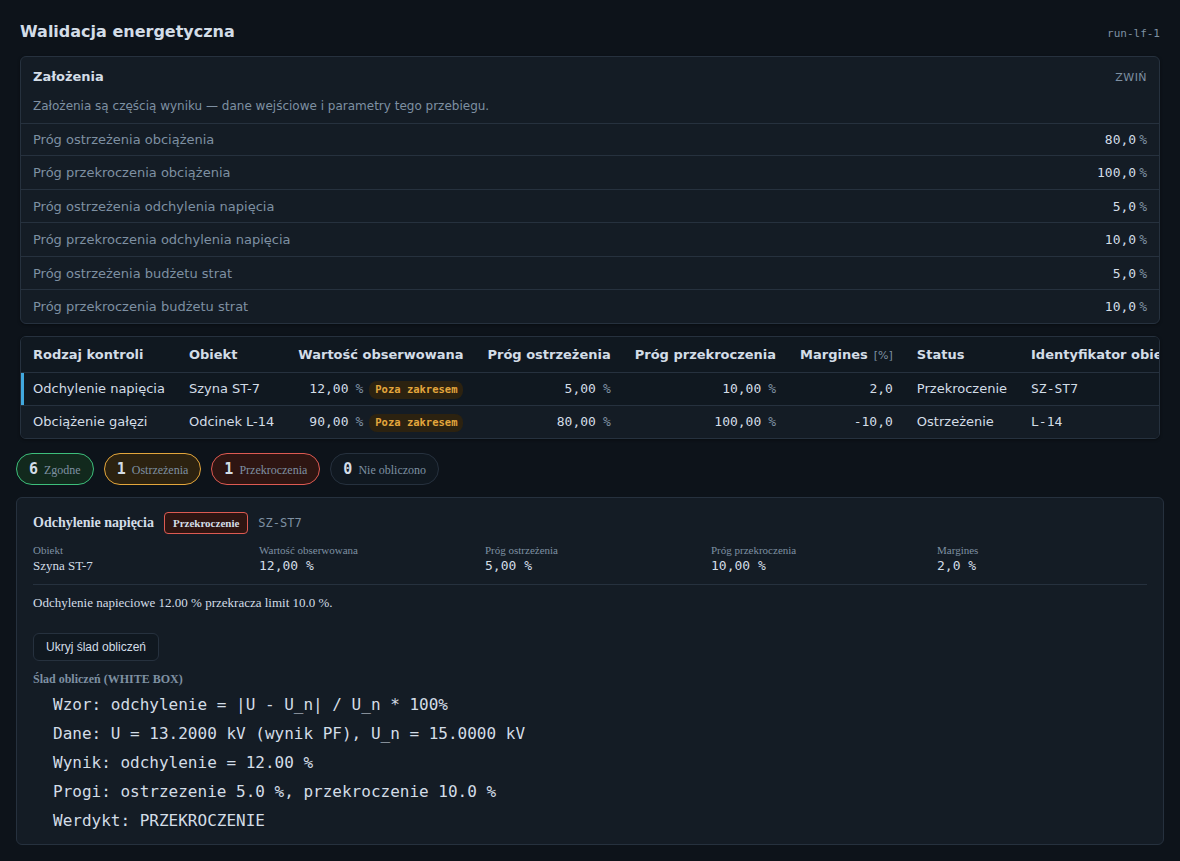
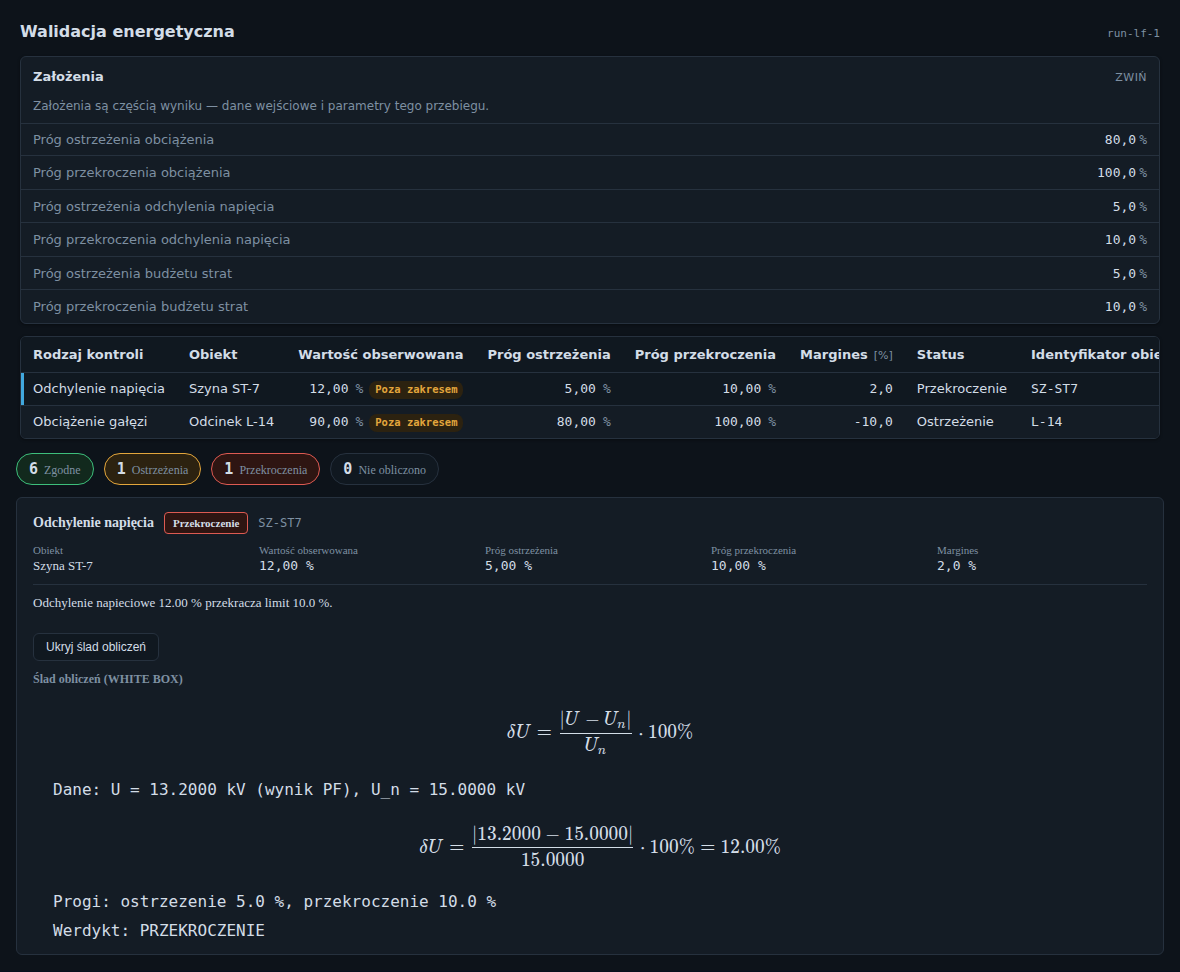
R3-D (V12K-112): slad WHITE BOX walidacji w LaTeX/KaTeX + rejestr rundy 3
Karta recenzyjna wlasciciela: wywody walidacji energetycznej renderowane
przez KaTeX zamiast surowego ASCII. Backend emituje kroki {tekst, latex}
(wzor + podstawienie liczbowe per kontrola), frontend renderuje MathBlock
(reuse ui/proof/MathRenderer, fallback <code>). Scena harnessu zrzutow
zaktualizowana do nowego ksztaltu; zrzuty flow-ekspert 10/10.

Rejestr: V12K-110 (R3-A obciazalnosc w rozplywie), V12K-111 (R3-C dowody
porownania A/B), V12K-112 (R3-D LaTeX); program FLOW EKSPERT+ par.7 —
runda 3 ALL IN zamknieta.

Claude-Session: https://claude.ai/code/session_01KyqX3x2UY6tyGCiMhNbA3u

diff --git a/mv-design-pro/frontend/src/creator-harness-main.tsx b/mv-design-pro/frontend/src/creator-harness-main.tsx
@@ -95,11 +95,17 @@ window.fetch = (async (input: RequestInfo | URL, init?: RequestInit) => {
             observed_value: 12.0, unit: '%', limit_warn: 5.0, limit_fail: 10.0, margin_pct: 2.0,
             status: 'FAIL', why_pl: 'Odchylenie napieciowe 12.00 % przekracza limit 10.0 %.',
             white_box: [
-              'Wzor: odchylenie = |U - U_n| / U_n * 100%',
-              'Dane: U = 13.2000 kV (wynik PF), U_n = 15.0000 kV',
-              'Wynik: odchylenie = 12.00 %',
-              'Progi: ostrzezenie 5.0 %, przekroczenie 10.0 %',
-              'Werdykt: PRZEKROCZENIE',
+              {
+                tekst: 'Wzor: odchylenie = |U - U_n| / U_n * 100%',
+                latex: '\\delta U = \\frac{|U - U_n|}{U_n} \\cdot 100\\%',
+              },
+              { tekst: 'Dane: U = 13.2000 kV (wynik PF), U_n = 15.0000 kV', latex: null },
+              {
+                tekst: 'Wynik: odchylenie = 12.00 %',
+                latex: '\\delta U = \\frac{|13.2000 - 15.0000|}{15.0000} \\cdot 100\\% = 12.00\\%',
+              },
+              { tekst: 'Progi: ostrzezenie 5.0 %, przekroczenie 10.0 %', latex: null },
+              { tekst: 'Werdykt: PRZEKROCZENIE', latex: null },
             ],
           },
           {
@@ -107,11 +113,17 @@ window.fetch = (async (input: RequestInfo | URL, init?: RequestInit) => {
             observed_value: 90.0, unit: '%', limit_warn: 80.0, limit_fail: 100.0, margin_pct: -10.0,
             status: 'WARNING', why_pl: 'Obciazenie 90.00 % powyzej progu ostrzegawczego 80.0 %.',
             white_box: [
-              'Wzor: obciazenie = |I| / I_n * 100%',
-              'Dane: |I| = 0.2295 kA (wynik PF), I_n = 0.2550 kA (dane galezi)',
-              'Wynik: obciazenie = 90.00 %',
-              'Progi: ostrzezenie 80.0 %, przekroczenie 100.0 %',
-              'Werdykt: OSTRZEZENIE',
+              {
+                tekst: 'Wzor: obciazenie = |I| / I_n * 100%',
+                latex: '\\varepsilon = \\frac{|I|}{I_n} \\cdot 100\\%',
+              },
+              { tekst: 'Dane: |I| = 0.2295 kA (wynik PF), I_n = 0.2550 kA (dane galezi)', latex: null },
+              {
+                tekst: 'Wynik: obciazenie = 90.00 %',
+                latex: '\\varepsilon = \\frac{0.2295}{0.2550} \\cdot 100\\% = 90.00\\%',
+              },
+              { tekst: 'Progi: ostrzezenie 80.0 %, przekroczenie 100.0 %', latex: null },
+              { tekst: 'Werdykt: OSTRZEZENIE', latex: null },
             ],
           },
         ],

diff --git a/mv-design-pro/frontend/src/ui2/wyniki/jakosc/EkranJakosci.tsx b/mv-design-pro/frontend/src/ui2/wyniki/jakosc/EkranJakosci.tsx
@@ -19,6 +19,7 @@
 import { useCallback, useEffect, useMemo, useState } from 'react';
 import './jakosc.css';
 import type { AdvancementMode } from '../../shell/modeModel';
+import { MathBlock } from '../../../ui/proof/MathRenderer';
 import { useExecutionRunsStore } from '../../../ui/study-cases/runStore';
 import type { ExecutionRun } from '../../../ui/study-cases/types';
 import { EkranAnalizy, usePoprawWModelu } from '../wzorzec';
@@ -492,9 +493,16 @@ function SzczegolWalidacji({
             <div data-testid="mvd-jakosc-wal-slad-blok">
               <span className="mvd-jakosc-slad-tytul">{JAKOSC_STRINGS.sladTytul}</span>
               <ol className="mvd-jakosc-slad" data-testid="mvd-jakosc-wal-slad">
-                {(item.white_box ?? []).map((linia) => (
-                  <li key={linia} className="mvd-jakosc-slad-krok">
-                    <code className="mvd-num">{linia}</code>
+                {/* R3-D (recenzja właściciela): wzór i podstawienie renderowane
+                    KaTeX-em (kanon Proof Engine — matematyka w LaTeX); kroki bez
+                    formuły (dane/progi/werdykt) pozostają tekstowe. */}
+                {(item.white_box ?? []).map((krok) => (
+                  <li key={krok.tekst} className="mvd-jakosc-slad-krok">
+                    {krok.latex ? (
+                      <MathBlock latex={krok.latex} />
+                    ) : (
+                      <code className="mvd-num">{krok.tekst}</code>
+                    )}
                   </li>
                 ))}
               </ol>

diff --git a/mv-design-pro/frontend/src/ui2/wyniki/jakosc/api.ts b/mv-design-pro/frontend/src/ui2/wyniki/jakosc/api.ts
@@ -85,6 +85,12 @@ export type RodzajKontroli =
 /** Kody statusu walidacji energetycznej (models.py:31-35) — mapowane na polski. */
 export type StatusWalidacji = 'PASS' | 'WARNING' | 'FAIL' | 'NOT_COMPUTED';
 
+/** Krok śladu WHITE BOX pozycji walidacji (R3-D): tekst + opcjonalny LaTeX. */
+export interface KrokSladuWalidacji {
+  readonly tekst: string;
+  readonly latex: string | null;
+}
+
 /** Pozycja kontroli energetycznej. */
 export interface WalidacjaItem {
   readonly check_type: RodzajKontroli;
@@ -97,9 +103,10 @@ export interface WalidacjaItem {
   readonly margin_pct: number | null;
   readonly status: StatusWalidacji;
   readonly why_pl: string;
-  /** Ślad WHITE BOX per pozycja (R2-A / K3-G1): wzór → dane → wynik → progi →
-   * werdykt. Opcjonalny (starsze odpowiedzi bez pola); pusty dla NOT_COMPUTED. */
-  readonly white_box?: readonly string[];
+  /** Ślad WHITE BOX per pozycja (R2-A / K3-G1; struktura R3-D): kroki
+   * {tekst, latex} — wzór i podstawienie niosą LaTeX (render KaTeX, kanon
+   * Proof Engine), pozostałe kroki tekstowe. Opcjonalny; pusty dla NOT_COMPUTED. */
+  readonly white_box?: readonly KrokSladuWalidacji[];
 }
 
 /** Konfiguracja progów walidacji (część ZAŁOŻEŃ). */

diff --git a/mv-design-pro/frontend/src/ui2/wyniki/jakosc/__tests__/fixtures.ts b/mv-design-pro/frontend/src/ui2/wyniki/jakosc/__tests__/fixtures.ts
@@ -125,13 +125,20 @@ export const WALIDACJA_FIXTURE: WalidacjaResponse = {
       margin_pct: -2.0,
       status: 'FAIL',
       why_pl: 'Odchylenie napięcia 12% — powyżej progu przekroczenia 10%.',
-      // Ślad WHITE BOX per pozycja (R2-A) — kształt 1:1 z buildera backendu.
+      // Ślad WHITE BOX per pozycja (R2-A; struktura R3-D) — kształt 1:1 z buildera.
       white_box: [
-        'Wzor: odchylenie = |U - U_n| / U_n * 100%',
-        'Dane: U = 13.2000 kV (wynik PF), U_n = 15.0000 kV',
-        'Wynik: odchylenie = 12.00 %',
-        'Progi: ostrzezenie 5.0 %, przekroczenie 10.0 %',
-        'Werdykt: PRZEKROCZENIE',
+        {
+          tekst: 'Wzor: odchylenie = |U - U_n| / U_n * 100%',
+          latex: '\\delta U = \\frac{|U - U_n|}{U_n} \\cdot 100\\%',
+        },
+        { tekst: 'Dane: U = 13.2000 kV (wynik PF), U_n = 15.0000 kV', latex: null },
+        {
+          tekst: 'Wynik: odchylenie = 12.00 %',
+          latex:
+            '\\delta U = \\frac{|13.2000 - 15.0000|}{15.0000} \\cdot 100\\% = 12.00\\%',
+        },
+        { tekst: 'Progi: ostrzezenie 5.0 %, przekroczenie 10.0 %', latex: null },
+        { tekst: 'Werdykt: PRZEKROCZENIE', latex: null },
       ],
     },
     {

diff --git a/mv-design-pro/frontend/src/ui2/wyniki/jakosc/__tests__/sekcje.test.tsx b/mv-design-pro/frontend/src/ui2/wyniki/jakosc/__tests__/sekcje.test.tsx
@@ -166,7 +166,12 @@ describe('SekcjaWalidacji — ślad WHITE BOX per pozycja (R2-A / K3-G1)', () =>
     fireEvent.click(screen.getByText('Odchylenie napięcia').closest('tr')!);
     fireEvent.click(screen.getByTestId('mvd-jakosc-wal-slad-otworz'));
     const slad = screen.getByTestId('mvd-jakosc-wal-slad');
-    expect(within(slad).getByText(/Wzor: odchylenie/)).toBeTruthy();
+    // R3-D: wzor i podstawienie renderowane KaTeX-em (nie surowy tekst ASCII).
+    const formuly = within(slad).getAllByTestId('math-rendered');
+    expect(formuly).toHaveLength(2);
+    expect(formuly[0].getAttribute('data-latex')).toContain('\\delta U');
+    expect(formuly[1].getAttribute('data-latex')).toContain('= 12.00');
+    // Kroki bez formuly (dane/progi/werdykt) pozostaja tekstowe.
     expect(within(slad).getByText(/U = 13.2000 kV \(wynik PF\)/)).toBeTruthy();
     expect(within(slad).getByText('Werdykt: PRZEKROCZENIE')).toBeTruthy();
   });

diff --git a/mv-design-pro/backend/src/analysis/energy_validation/builder.py b/mv-design-pro/backend/src/analysis/energy_validation/builder.py
@@ -128,7 +128,9 @@ class EnergyValidationBuilder:
                     why_pl=why,
                     white_box=_white_box_progowe(
                         "obciazenie = |I| / I_n * 100%",
+                        r"\varepsilon = \frac{|I|}{I_n} \cdot 100\%",
                         f"|I| = {abs(i_ka):.4f} kA (wynik PF), I_n = {rated_ka:.4f} kA (dane galezi)",
+                        rf"\varepsilon = \frac{{{abs(i_ka):.4f}}}{{{rated_ka:.4f}}} \cdot 100\% = {loading_pct:.2f}\%",
                         f"obciazenie = {loading_pct:.2f} %",
                         config.loading_warn_pct,
                         config.loading_fail_pct,
@@ -219,7 +221,9 @@ class EnergyValidationBuilder:
                     why_pl=why,
                     white_box=_white_box_progowe(
                         "obciazenie = max(|S_gora|, |S_dol|) / S_n * 100%",
+                        r"\varepsilon = \frac{\max(|S_{\text{gora}}|, |S_{\text{dol}}|)}{S_n} \cdot 100\%",
                         f"S = {s_mva:.4f} MVA (wynik PF), S_n = {branch.rated_power_mva:.4f} MVA",
+                        rf"\varepsilon = \frac{{{s_mva:.4f}}}{{{branch.rated_power_mva:.4f}}} \cdot 100\% = {loading_pct:.2f}\%",
                         f"obciazenie = {loading_pct:.2f} %",
                         config.loading_warn_pct,
                         config.loading_fail_pct,
@@ -283,7 +287,9 @@ class EnergyValidationBuilder:
                     why_pl=why,
                     white_box=_white_box_progowe(
                         "odchylenie = |U - U_n| / U_n * 100%",
+                        r"\delta U = \frac{|U - U_n|}{U_n} \cdot 100\%",
                         f"U = {u_kv:.4f} kV (wynik PF), U_n = {u_nom_kv:.4f} kV",
+                        rf"\delta U = \frac{{|{u_kv:.4f} - {u_nom_kv:.4f}|}}{{{u_nom_kv:.4f}}} \cdot 100\% = {delta_pct:.2f}\%",
                         f"odchylenie = {delta_pct:.2f} %",
                         config.voltage_warn_pct,
                         config.voltage_fail_pct,
@@ -343,7 +349,9 @@ class EnergyValidationBuilder:
                 why_pl=why,
                 white_box=_white_box_progowe(
                     "straty = |P_strat / P_slack| * 100%",
+                    r"\Delta P\% = \left|\frac{P_{\text{strat}}}{P_{\text{slack}}}\right| \cdot 100\%",
                     f"P_strat = {p_loss_pu:.6f} p.u., P_slack = {p_slack_pu:.6f} p.u. (wynik PF)",
+                    rf"\Delta P\% = \left|\frac{{{p_loss_pu:.6f}}}{{{p_slack_pu:.6f}}}\right| \cdot 100\% = {loss_pct:.2f}\%",
                     f"straty = {loss_pct:.2f} %",
                     config.loss_warn_pct,
                     config.loss_fail_pct,
@@ -403,11 +411,19 @@ class EnergyValidationBuilder:
                 status=status,
                 why_pl=why,
                 white_box=(
-                    "Wzor: tan(phi) = |Q_slack / P_slack|; cos(phi) = cos(arctan(tan(phi)))",
-                    f"Dane: Q_slack = {q_slack_pu:.6f} p.u., P_slack = {p_slack_pu:.6f} p.u. (wynik PF)",
-                    f"Wynik: tan(phi) = {tan_phi:.4f}, cos(phi) = {cos_phi:.3f}",
-                    "Progi: ostrzezenie cos(phi) < 0.9, przekroczenie cos(phi) < 0.8",
-                    f"Werdykt: {_WERDYKT_PL[status]}",
+                    _krok(
+                        "Wzor: tan(phi) = |Q_slack / P_slack|; cos(phi) = cos(arctan(tan(phi)))",
+                        r"\cos\varphi = \cos\!\left(\arctan\left|\frac{Q_{\text{slack}}}{P_{\text{slack}}}\right|\right)",
+                    ),
+                    _krok(
+                        f"Dane: Q_slack = {q_slack_pu:.6f} p.u., P_slack = {p_slack_pu:.6f} p.u. (wynik PF)"
+                    ),
+                    _krok(
+                        f"Wynik: tan(phi) = {tan_phi:.4f}, cos(phi) = {cos_phi:.3f}",
+                        rf"\tan\varphi = {tan_phi:.4f} \Rightarrow \cos\varphi = {cos_phi:.3f}",
+                    ),
+                    _krok("Progi: ostrzezenie cos(phi) < 0.9, przekroczenie cos(phi) < 0.8"),
+                    _krok(f"Werdykt: {_WERDYKT_PL[status]}"),
                 ),
             )
         ]
@@ -421,24 +437,32 @@ _WERDYKT_PL: dict[EnergyValidationStatus, str] = {
 }
 
 
+def _krok(tekst: str, latex: str | None = None) -> dict:
+    """Krok sladu WHITE BOX: tekst (raporty/ASCII) + opcjonalny LaTeX (UI/KaTeX)."""
+    return {"tekst": tekst, "latex": latex}
+
+
 def _white_box_progowe(
     wzor: str,
+    wzor_latex: str,
     dane: str,
+    podstawienie_latex: str,
     wynik: str,
     warn: float,
     fail: float,
     unit: str,
     status: EnergyValidationStatus,
-) -> tuple[str, ...]:
-    """Wywod WHITE BOX pozycji progowej (R2-A / K3-G1): wzor -> dane -> wynik ->
-    progi -> werdykt. Ciagi deterministyczne (stale formaty), konwencja ASCII-PL
-    jak why_pl."""
+) -> tuple[dict, ...]:
+    """Wywod WHITE BOX pozycji progowej (R2-A / K3-G1; struktura R3-D):
+    wzor (LaTeX) -> dane (pochodzenie) -> podstawienie z wynikiem (LaTeX) ->
+    progi -> werdykt. Ciagi deterministyczne (stale formaty); tekst ASCII-PL
+    jak why_pl, matematyka w LaTeX (kanon Proof Engine)."""
     return (
-        f"Wzor: {wzor}",
-        f"Dane: {dane}",
-        f"Wynik: {wynik}",
-        f"Progi: ostrzezenie {warn:.1f} {unit}, przekroczenie {fail:.1f} {unit}",
-        f"Werdykt: {_WERDYKT_PL[status]}",
+        _krok(f"Wzor: {wzor}", wzor_latex),
+        _krok(f"Dane: {dane}"),
+        _krok(f"Wynik: {wynik}", podstawienie_latex),
+        _krok(f"Progi: ostrzezenie {warn:.1f} {unit}, przekroczenie {fail:.1f} {unit}"),
+        _krok(f"Werdykt: {_WERDYKT_PL[status]}"),
     )
 
 

diff --git a/mv-design-pro/backend/tests/analysis/test_energy_validation.py b/mv-design-pro/backend/tests/analysis/test_energy_validation.py
@@ -846,12 +846,16 @@ class TestWhiteBoxTrace:
         view = EnergyValidationBuilder().build(pf, graph, DEFAULT_CONFIG)
         item = [i for i in view.items if i.check_type == EnergyCheckType.BRANCH_LOADING][0]
         assert len(item.white_box) == 5
-        assert item.white_box[0].startswith("Wzor:")
-        assert "0.4500 kA" in item.white_box[1]  # |I| z wyniku PF
-        assert "0.5000 kA" in item.white_box[1]  # I_n z danych galezi
-        assert "90.00 %" in item.white_box[2]
-        assert "ostrzezenie 80.0 %" in item.white_box[3]
-        assert item.white_box[4] == "Werdykt: OSTRZEZENIE"
+        # R3-D: kroki strukturalne {tekst, latex} - wzor i podstawienie w LaTeX.
+        assert item.white_box[0]["tekst"].startswith("Wzor:")
+        assert r"\frac{|I|}{I_n}" in item.white_box[0]["latex"]
+        assert "0.4500 kA" in item.white_box[1]["tekst"]  # |I| z wyniku PF
+        assert "0.5000 kA" in item.white_box[1]["tekst"]  # I_n z danych galezi
+        assert item.white_box[1]["latex"] is None  # pochodzenie danych = tekst
+        assert "90.00 %" in item.white_box[2]["tekst"]
+        assert "= 90.00" in item.white_box[2]["latex"]  # podstawienie liczbowe
+        assert "ostrzezenie 80.0 %" in item.white_box[3]["tekst"]
+        assert item.white_box[4]["tekst"] == "Werdykt: OSTRZEZENIE"
 
     def test_not_computed_item_has_empty_trace(self):
         graph = _build_simple_graph()
@@ -873,7 +877,8 @@ class TestWhiteBoxTrace:
             assert item_dict["white_box"] == list(item.white_box)
             if item.status != EnergyValidationStatus.NOT_COMPUTED:
                 assert len(item.white_box) == 5
-                assert item.white_box[-1].startswith("Werdykt:")
+                assert item.white_box[-1]["tekst"].startswith("Werdykt:")
+                assert item.white_box[0]["latex"]  # wzor zawsze w LaTeX
         json.dumps(data)  # serializowalnosc
 
     def test_trace_is_deterministic(self):

diff --git a/mv-design-pro/backend/src/analysis/energy_validation/models.py b/mv-design-pro/backend/src/analysis/energy_validation/models.py
@@ -47,10 +47,12 @@ class EnergyValidationItem:
     margin_pct: float | None
     status: EnergyValidationStatus
     why_pl: str
-    # Slad WHITE BOX per pozycja (R2-A / K3-G1): wywod wartosci obserwowanej
-    # (wzor -> dane -> wynik -> progi -> werdykt). Addytywnie, domyslnie pusty
+    # Slad WHITE BOX per pozycja (R2-A / K3-G1; struktura R3-D): krotka krokow
+    # {"tekst": str, "latex": str | None}. `latex` obecny dla wzoru i
+    # podstawienia (kanon Proof Engine: matematyka w LaTeX, UI renderuje KaTeX);
+    # `tekst` zawsze (raporty/eksport ASCII). Addytywnie, domyslnie pusty
     # (pozycje NOT_COMPUTED bez wywodu - powod niesie why_pl).
-    white_box: tuple[str, ...] = ()
+    white_box: tuple[dict, ...] = ()
 
 
 @dataclass(frozen=True)

diff --git a/mv-design-pro/docs/v12xx/REJESTR_KONFLIKTOW.md b/mv-design-pro/docs/v12xx/REJESTR_KONFLIKTOW.md
@@ -72,6 +72,9 @@ Cel: jawne rozstrzyganie sprzecznosci miedzy promptem, dokumentami aktywnymi, ar
 | V12K-053 | **ROZSTRZYGNIETY (2026-07-19, dyrektywa wlasciciela: „kontynuuj zgodnie bez zatrzymywania").** G-SEK: legacy `InsertSectionSwitchForm` (72 w., cienki wrapper nad SectionSwitchModal) bez kontraktu ekranu prowadzacego. Weryfikacja audytowa potwierdzila, ze stan lacznika (open/closed) JEST honorowany przez kanoniczny PF (mapping.py:153 wyklucza otwarte galezie; power_flow_newton_internal.py:785 open switch → brak krawedzi Y-bus) — wiec kreator sekcjonowania nie jest kosmetyka. | Dyrektywa wlasciciela 2026-07-19; recon insert_section_switch_sn (segment_id, insert_at RATIO, switch_type, normal_state, APARAT_SN), power_flow open-switch handling | Kreator ui2 `KreatorLacznikaSekcyjnego` (kreatory/rama) zastepuje `InsertSectionSwitchForm`: katalog-first (APARAT_SN, fetchMvApparatusTypes), rodzaj aparatu, stan normalny (zamkniety/otwarty=NOP), polozenie na odcinku (RATIO 0..1), uczciwy stan zerowy (brak odcinka), sekcja downstream (PF radialny gdy otwarty, pewnosc zasilania). Retire legacy. | `ui2/kreatory/lacznik/**`, `operationFormRegistry`, `operationSurfaceRegistry`, `modalRegistryCompleteness.test` (asercja componentName), `dialog_completeness_guard.py`. Bez edycji ui/sld/**. | Testy: lacznikModel (6) + KreatorLacznikaSekcyjnego (4) + modalRegistryCompleteness (8). Pelna regresja frontendu. | sredni |
 | V12K-062 | **ROZSTRZYGNIETY (2026-07-20, dyrektywa wlasciciela: „G oze b full opcji"; wybor sciezki AskUserQuestion: „Most przez profile (reuse)").** G-OZE-B: audyt wykryl, ze konfiguracja NC RfG (krzywe/flagi) zyje w podsystemie konfiguratora stacji (station-der store + NcRfgTestsTab + macierz), NIE w kanonicznym add_converter_source — matryca NC RfG czyta der.profiles (audit2 station-config), osobna persystencja. Doprecyzowanie „most przez profile" dla kanonicznego konsumenta: kanoniczny PF falownika MA statyzm P(f)/LFSM (lfsm_droop_pct), ale `_build_converter_control_by_node` czytal tylko cosphi/qu_slope — forward-phantom (jak G-OZE-PF dla Q). | Dyrektywa wlasciciela 2026-07-20; recon: NcRfgPtpireeModuleInput z body (nie z modelu), station-der store client-side, DerSurfaces most, `_study_frequency_hz` (studium f z ENM header), `lfsm_factor`/`inverter_control_from_params` (lfsm juz wspierany) | Backend: `add_converter_source` utrwala `frequency_droop_percent` (+ `lfsm_allow_increase` dla BESS/LFSM-U) na meta generatora (PV/BESS/FW); `_build_converter_control_by_node` czyta je → `params["lfsm_droop_pct"]` + brama `active` dla statyzmu f niezaleznie od trybu Q; kanoniczny PF stosuje `lfsm_factor(control, f_studium)` — realny wplyw przy odchylce f (przy 50 Hz brak → determinizm). Frontend: krok „Regulacja" w KreatorZrodlaOze dostaje pole „Statyzm P(f)/LFSM [%]" (mapuje na frequency_droop_percent). **Odnoga NC RfG matryca (audit2 station-config) = karta G-OZE-B2 (cross-thread do watku konfiguratora/SLD), NIE tworzymy rownoleglej sciezki.** | `enm/domain_ops_models.py`, `enm/domain_operations_v2.py`, `enm/canonical_analysis.py`, `ui2/kreatory/zrodlo-oze/**`. FROZEN Result API + ui/sld/** + station-der nietkniete. | Testy: `test_oze_pf_inverter_control` +5 (P(f) attach/gate/lfsm_factor redukcja przy 50.5 Hz/determinizm) + `zrodloOzeModel` (statyzm w payloadzie). Pelne regresje backend+frontend; determinizm przy 50 Hz. | wysoki |
 | V12K-073 | **ROZSTRZYGNIETY (2026-07-20, dyrektywa wlasciciela: „zapisz zasade ze stacje wstawiamy na koncu odcinka. W sr[odku] bez sensu. Pilnuj zeby kreatory wszystkie byliby wiazane wielokierunkowo i warstwo np. z e-schematem i wszystkim innym — planuj, zapisz i wdrazaj, ustaw cel i kryteria odbioru").** (a) Regula: stacja/odbior wstawiane na KONCU odcinka (budowa wezel po wezle); wstawianie w srodku odcinka ZAKAZANE (niefizyczne) — korekta wczesniejszej propozycji „w srodku ciagu". (b) Wiazanie: 8 z 9 kreatorow konczylo samym `navigateToSld()` — nowy element NIE byl zaznaczany na schemacie (tylko magistrala wolala selectElement). Uzytkownik ladowal na SLD bez podswietlonego/wybranego swiezego elementu (brak wiazania kreator→glif→inspektor). | Dyrektywa wlasciciela 2026-07-20; recon: `buildNextContext` (ENDPOINT_APPEND/position_on_segment:1 — stacja-na-koncu juz zaimplementowana), `insert_station_on_segment_sn`, `selection_hint` (backend `_success_response` selection_id/selection_type), macierz kreator×operacja×selection_type | **Kanon: `docs/uiux/ZASADY_WIAZANIA_KREATOROW_2026-07.md`** (regula stacja-na-koncu + program wiazania: CEL + kryteria odbioru + macierz kreator×warstwa). Wspolny hook `rama/selekcjaPoOperacji.ts` (`useSelekcjaPoOperacji` + `mapujTypElementu` + `refZOperacji`): po sukcesie operacji wyluskuje ref (`selection_hint.element_id`→`created_element_ids[0]`), mapuje `selection_type` backendu na `ElementType`, wola `selectElement` (otwiera property-grid) + `centerSldOnElement` (zoom_to) + `navigateToSld`. Wpiete w 9 kreatorow (transformator/kompensator/lacznik/odbior/pierscien/pole/zrodlo/zrodlo-oze; magistrala ma wlasny wzorzec per-odcinek). **ZERO fabrykacji**: ref i typ z odpowiedzi backendu, fallback typu tylko obronnie. | `ui2/kreatory/rama/selekcjaPoOperacji.ts` (nowy) + `rama/index.ts` (barrel) + 8 kreatorow (usuniety bezposredni `navigateToSld`, dodany hook). Regula stacja-na-koncu juz wymuszona (ENDPOINT_APPEND). FROZEN API/backend/ui/sld/** nietkniete (renderowanie glifu = watek SLD). | Testy: `rama/selekcjaPoOperacji.test.tsx` (8: mapowanie typu, refZOperacji, hook select+center+nav, fallback, brak elementu) + `KreatorTransformatoraSnNn` (realna sciezka: po zapisie element zaznaczony `type:TransformerBranch` + SLD wycentrowany). Type-check/lint zielone; regresja kreatorow (203) + pelna regresja frontendu. **KOREKTA (follow-up d3e6408f): swiadomy podzial odcinka `insert_station_on_segment_sn` jest POPRAWNY — backend dzieli odcinek na dwa i stawia stacje w NOWYM wezle (= koniec odcinka), Phase 0A/0C „Conscious split with preview", heavy-tested. Retrakcja falszywej diagnozy „mid-segment leak"; zakaz dotyczy tylko phantom-trybu „stacja plywajaca bez podzialu". NIE zmieniono zachowania.** | wysoki |
+| V12K-112 | **ROZSTRZYGNIETY (2026-07-22, karta recenzyjna wlasciciela R3-D: „Wyniki obliczen wygladaja jak z Commodore — uzyj LaTeX lub czegos lepszego"; Fable osobiscie).** Slad WHITE BOX walidacji energetycznej (R2-A/V12K-105) renderowal sie jako surowe linie ASCII w monospace — wzory ulamkowe nieczytelne, poziom prezentacji ponizej kanonu Proof Engine (matematyka wylacznie LaTeX). | Recon: `ui/proof/MathRenderer.tsx` juz istnieje (KaTeX, testidy math-rendered/math-fallback, flaga ENABLE_MATH_RENDERING domyslnie wlaczona, fail-safe fallback do `<code>`); builder walidacji emitowal czysty tekst. Reuse zamiast duplikacji. | **Strukturalny slad z LaTeX (addytywnie):** backend — `white_box` z `tuple[str,...]` na kroki `{tekst, latex}` (helper `_krok` + `_white_box_progowe`); LaTeX wywodu per kontrola: obciazenie `\varepsilon = |I|/I_n·100%` (+ podstawienie liczbowe), transformator `max(|S_gora|,|S_dol|)/S_n`, napiecie `\delta U = |U-U_n|/U_n·100%`, straty `\Delta P%`, bierna `tan/cos phi`; serializer bez zmian (dicty JSON). Frontend — typ `KrokSladuWalidacji`, `SzczegolWalidacji` renderuje `MathBlock` dla krokow z latex, `<code>` dla tekstowych; scena harnessu zrzutow zaktualizowana do nowego ksztaltu. | Backend: `analysis/energy_validation/{models,builder}.py`, `tests/analysis/test_energy_validation.py`. Frontend: `ui2/wyniki/jakosc/{api.ts,EkranJakosci.tsx}`, `__tests__/{fixtures,sekcje}`, `creator-harness-main.tsx`. FROZEN nietkniete (analiza, kontrakt addytywny — starsze odpowiedzi bez pola nadal poprawne). | Backend 45 zielone (struktura krokow, latex wzoru i podstawienia, kroki tekstowe latex=null, werdykt), black/ruff czyste; frontend jakosc 79 zielone (2x math-rendered z `\delta U` i `= 12.00`), type-check czysty; zrzuty flow-ekspert 10/10 — wzory KaTeX potwierdzone wizualnie na scenie walidacji. | wysoki (prezentacja wywodow na poziomie Proof Engine; wzorzec do reuse w kolejnych sladach) |
+| V12K-111 | **ROZSTRZYGNIETY (2026-07-22, FLOW EKSPERT+ runda 3 ALL IN, karta R3-C — GAP K3-G2; wykonawca w worktree, weryfikacja i scalenie Fable).** Porownanie przebiegow A/B pokazywalo liczby obu stron bez drogi do dowodu — dowodRef prowadzil co najwyzej do sladu AKTYWNEGO przebiegu, wiec dla strony B bylby falszywy (regula K3: zero falszywych refow). | Recon wykonawcy PROVED warunek STOP niespelniony: slad jest pobieralny per przebieg (`fetchExtendedTrace(runId)` → `GET /analysis-runs/{id}/results/trace`, `ui/results-inspector/api.ts`), wiec dowod WLASCIWEGO przebiegu jest osiagalny bez rozbudowy backendu. | **Dowody kolumn A/B (addytywnie):** nowy `ui2/wyniki/porownanie/dowodPorownania.ts` (refy `A:<element>`/`B:<element>` + parser); komorki A i B niosa dowodRef, delta CELOWO bez (roznica to arytmetyka porownania, nie wynik solvera); klik → `setWynikiTab('dowod', run_a_id|run_b_id)`; `TrybZwarciowy` trzyma porownywana pare; WynikiWarsztat przechwytuje kontekst dla zakladki dowod; `DowodPrzebiegu` +prop `wskazanyRunId` (null = aktywny, 1:1). | 15 plikow frontend (porownanie/**, spaces/wyniki, shell store, dowod). Backend nietkniety. | Testy wykonawcy +26 (parser refow; klik komorki A → dowod z run_a_id; delta bez refu; kontekst czyszczony). Bramki w worktree: 53 pliki/577 zielone, type-check/eslint/guardy 0. Weryfikacja Fable po cherry-picku (razem z R3-D): type-check czysty, wyniki+shell 53 pliki/600 zielone, 6 guardow UI zielone. | wysoki (K3-G2 domkniety: kazda liczba porownania ma dowod wlasciwego przebiegu) |
+| V12K-110 | **ROZSTRZYGNIETY (2026-07-22, FLOW EKSPERT+ runda 3 ALL IN, karta R3-A — GAP K1-G2; wykonawca w worktree, weryfikacja i scalenie Fable).** Tabela galezi rozplywu pokazywala prad bez werdyktu obciazalnosci — inzynier nie widzial na miejscu, czy galaz/transformator przekracza dopuszczalne obciazenie, mimo ze walidacja energetyczna juz to liczy. | Recon: `fetchWalidacjaEnergetyczna` zwraca pozycje BRANCH_LOADING/TRANSFORMER_LOADING kluczowane target_id z realnym procentem obciazenia i statusem progowym z backendu. | **Kolumna „Obciazenie [%]" w tabeli galezi (addytywnie, zero fizyki w UI):** `naMapeObciazen` + `komorkaObciazenia` konsumuja pozycje walidacji per target_id; procent i werdykt WYLACZNIE z backendu (status PASS/WARNING/FAIL); przekroczenie odblokowuje „Popraw w modelu" przez `rodzajPrzekroczeniaWalidacji`; uczciwe „—" gdy walidacja niedostepna; komorka obciazenia CELOWO bez dowodRef (regula K3 — wywod jest przy pozycji walidacji, nie w sladzie LF). | 7 plikow `ui2/wyniki/rozplyw/**`. Backend nietkniety. | Bramki wykonawcy + weryfikacja Fable po cherry-picku: rozplyw 488/488 zielone, type-check czysty, guardy zielone; po scaleniu calego pakietu rundy 3: wyniki+shell 600/600. | wysoki (K1-G2 domkniety: werdykt obciazalnosci przy liczbie, akcja naprawcza 1 klik) |
 | V12K-108 | **ROZSTRZYGNIETY (2026-07-22, FLOW EKSPERT+ runda 2 karta R2-E - GAP zbiorczy z raportu R2-C; wykonawca w worktree, weryfikacja i scalenie Fable).** 30 testow w 17 plikach oze/**+kreatory/** emitowalo ostrzezenia act(...) (65 surowych linii) - montaz z asynchronicznym fetchem katalogow bez oczekiwania na stan koncowy. | Pomiar wykonawcy przed/po per plik (tabela w raporcie karty); dwie diagnozy poza mechanizmem karty, potwierdzone stackiem: (a) macierz - afterEach resetowal store przy WCIAZ zamontowanym komponencie (zustand setState poza act) -> naprawa porzadku sprzatania (cleanup() przed resetem); (b) zrodlo - kaskada 5 katalogow -> DRUGI bieg podgladu IEC 60909 z identyczna trescia -> kotwica na liczniku wywolan mocka. | **Naprawa TESTOW u zrodla (wzorce R2-C):** preferencja czekania na REALNY stan koncowy UI (opcje katalogow, komunikaty, chipy); jawny act(async) tylko bez sygnalu UI, ze skomentowanym DLACZEGO; zero wyciszania, zero zmian asercji. **Defekt uboczny naprawiony (Zero-Debt):** wyscig w studium - klik w disabled przycisk uruchomienia przed prefill katalogu (4 miejsca) -> waitFor(toBeEnabled()) przed klikiem (test klika AKTYWNY przycisk jak realny uzytkownik). Defektow komponentow brak (cleanupy poprawne). | 17 plikow testow (174+/37-), zero zmian produkcyjnych. | Pomiar 30->0 testow / 65->0 linii; oze+kreatory 69 plikow/701 zielone; pelna regresja ui2 w worktree 185/1945 zielona; type-check/guardy zielone. Weryfikacja Fable po cherry-picku: 701/701, grep act=0. | sredni (higiena testow domknieta zbiorczo; obserwacja: pre-existing jsdom 'Not implemented: navigation' w EkranWniosku - nie act, test zielony) |
 | V12K-109 | **ROZSTRZYGNIETY (2026-07-22, FLOW EKSPERT+ runda 3 ALL IN, karta R3-B - GAP K3-G3; Fable osobiscie, opcja max).** Sekcja 'Wklady' ekranu zwarc byla pass-through bez dostawcy danych (TODO-KARTA 1 w zwarciaModel) - inzynier nie widzial rozbicia pradu zwarciowego na zrodla. | Recon: solver `compute_machine_contributions` (machine_sc_iec60909, IEC 60909-0:2016 par.6.6, WHITE BOX w wyniku) juz liczy rozbicie per maszyna (mu/q/i_b) dla pakietu SC3F; graf z `map_enm_to_network_graph`, id wezla = deterministyczny UUID z ref ENM (`_ref_to_uuid`). | **Dostawca end-to-end (backend pierwszy):** (1) endpoint `POST /api/proof/sc3f/contributions` (proof_pack.py): snapshot ENM + fault_node_id -> JSON `MachineShortCircuitResult.to_dict()` (wklady + white_box); tozsamosc punktu rozwiazywana serwerowo (przyjmuje id wezla grafu LUB ref ENM szyny = target_id wyniku SC); deterministycznie pusta lista bez maszyn. (2) Frontend `zwarcia/api.ts`: fetch + projekcja `naWklady` (JEDYNA operacja: skalowanie prezentacji A->kA) + hook `useWkladyZwarciowe` (cache per punkt, blad -> uczciwy stan 'dane niedostepne'); wpiecie w EkranZwarc addytywnie - props `wklady` (testy/nadpisanie) ma pierwszenstwo, bez propsa hook pobiera dla aktywnego punktu. ZERO fizyki w UI. | Backend: `api/proof_pack.py` (+SCContributionsRequest+endpoint), `tests/api/test_proof_pack_api.py` (+3). Frontend: `ui2/wyniki/zwarcia/{api.ts(nowy),EkranZwarc.tsx}` + `__tests__/ekranZwarc.test.tsx` (+3). FROZEN Result API nietkniete (nowy endpoint czyta snapshot, solver bez zmian). | Backend: 7/7 (rozbicie z WHITE BOX; determinizm odpowiedzi; pusta lista bez maszyn; ref ENM akceptowany), black/ruff czyste. Frontend: zwarcia 3 pliki/41 zielone (dostawca pokazuje zrodlo+prad z backendu, fault_node_id = target_id aktywnego punktu; blad->'dane niedostepne'; props override bez fetch), type-check czysty, guardy zielone. | wysoki (K3-G3 domkniety: wklady zwarciowe realne, ten sam solver co pakiet dowodowy) |
 | V12K-107 | **ROZSTRZYGNIETY (2026-07-22, FLOW EKSPERT+ runda 2 karta R2-C — GAP K4-G1; wykonawca w worktree, weryfikacja i scalenie Fable).** Testy integracyjne powloki emitowaly ostrzezenia act(...) (pomiar: integracja 9, wynikiWarsztat 2) — szum maskujacy przyszle realne bledy. | Diagnoza wykonawcy per ostrzezenie: montaz AppRoot planuje realne asynchroniczne aktualizacje (rAF→setAplikacjaGotowa, fetch /api/health), KreatorStudium/MacierzNcRfg pobieraja katalogi przy montazu; NIE defekt komponentow (cleanupy sa; brak setState-po-unmount). | **Naprawa TESTOW u zrodla (bez wyciszania):** helper `renderujPowloke()` = render + `await findByTestId('app-ready')` (realny znacznik gotowosci, ta sama sciezka co e2e) w 9 testach integracji; wynikiWarsztat: `findByTestId('mvd-oze-blad-katalogu')` (realny stan koncowy) + 1 jawny `act(async)` domykajacy efekt bez sygnalu UI (skomentowany DLACZEGO). Zero zmian asercji. | `ui2/__tests__/integracja.test.tsx`, `ui2/spaces/wyniki/__tests__/wynikiWarsztat.test.tsx`. | Pomiar 9→0 i 2→0; celowane 44 zielone; pelna regresja ui2 w worktree 184/1935 zielona; po scaleniu z R2-B obszar 46 zielony, act=0. **GAP zbiorczy zarejestrowany:** ten sam wzorzec w 17 plikach oze/**+kreatory/** (30 ostrzezen) — osobna karta zbiorcza (wzorce przenosne). | sredni (higiena testow; wzorzec renderujPowloke do reuse) |

diff --git a/mv-design-pro/docs/uiux/PROMPT_FABLE_FLOW_EKSPERT_2026-07.md b/mv-design-pro/docs/uiux/PROMPT_FABLE_FLOW_EKSPERT_2026-07.md
@@ -212,6 +212,13 @@ GAP-y z raportów wykonawców (zarejestrowane, nie ciche):
 
 ## §7. RUNDA 3 — ALL IN (dyrektywa właściciela 2026-07-22: „All in")
 
+**STATUS RUNDY: ZAMKNIĘTA (2026-07-22).** R3-A SCALONE (V12K-110),
+R3-B SCALONE (V12K-109), R3-C SCALONE (V12K-111). Dodatkowo karta recenzyjna
+właściciela **R3-D SCALONA (V12K-112)**: ślad WHITE BOX walidacji renderowany
+przez KaTeX (`MathBlock` z `ui/proof/MathRenderer` — reuse, zero duplikacji);
+backend emituje kroki `{tekst, latex}` z wywodem LaTeX per kontrola.
+Werdykt wizualny potwierdzony na scenie `walidacja` (zrzuty 10/10).
+
 Wszystkie trzy pozostałe pozycje rejestru naraz:
 
 - **R3-A (K1-G2) [WYKONAWCA]** — werdykt obciążalności gałęzi w tabeli rozpływu.
